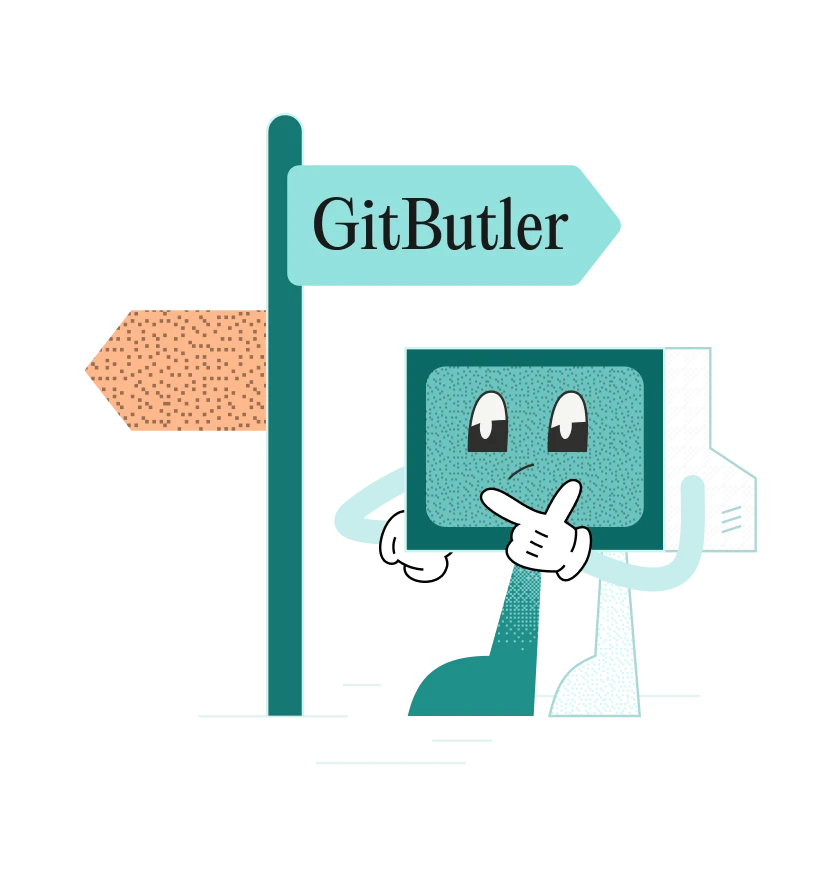
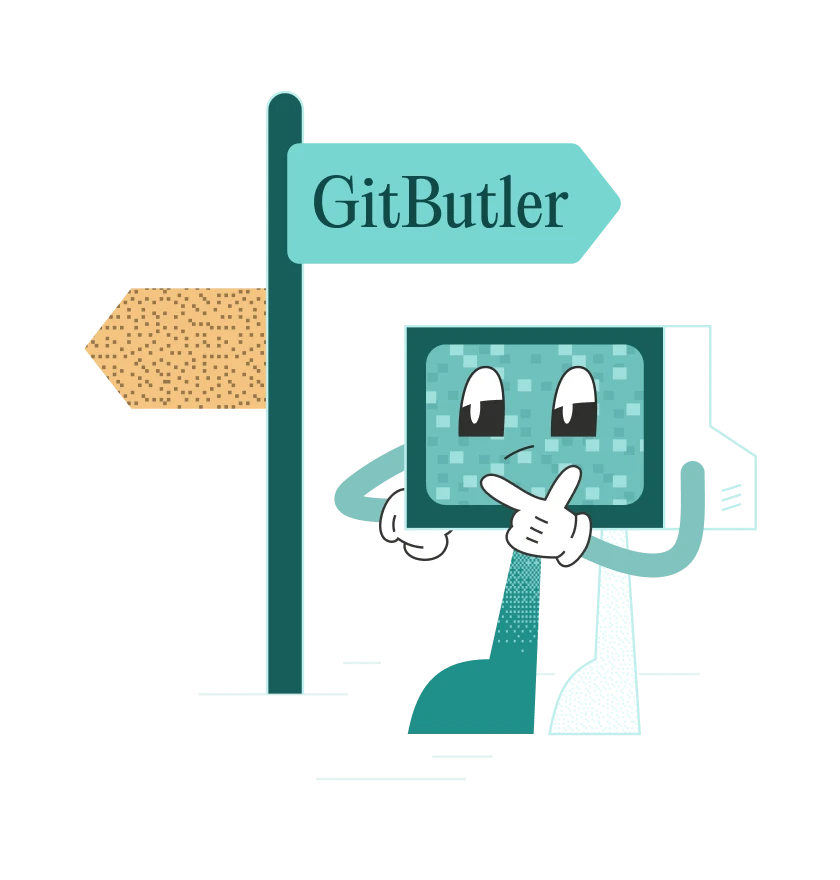
Added new “error” state image, a few minor CSS fixes

Changed region(s): [[0.3714, 0.3682, 0.8976, 0.8898], [0.0929, 0.092, 0.7429, 0.8284]]

diff --git a/gitbutler-ui/src/lib/components/Select.svelte b/gitbutler-ui/src/lib/components/Select.svelte
@@ -36,7 +36,7 @@
 
 <div class="select-wrapper" class:wide>
 	{#if label}
-		<label for={id} class="select__label text-base-body-13 text-semibold">{label}</label>
+		<label class="select__label text-base-body-13 text-semibold">{label}</label>
 	{/if}
 	<TextBox
 		{id}
@@ -95,6 +95,7 @@
 	}
 
 	.select__label {
+		text-align: left;
 		color: var(--clr-theme-scale-ntrl-50);
 	}
 
@@ -107,7 +108,7 @@
 		margin-top: var(--space-4);
 		border-radius: var(--radius-m);
 		border: 1px solid var(--clr-theme-container-outline-light);
-		background: var(--container-light, #fff);
+		background: var(--clr-theme-container-light);
 		box-shadow: var(--fx-shadow-s);
 	}
 

diff --git a/gitbutler-ui/src/lib/components/ProblemLoadingRepo.svelte b/gitbutler-ui/src/lib/components/ProblemLoadingRepo.svelte
@@ -15,7 +15,13 @@
 	$: user$ = userService.user$;
 </script>
 
-<DecorativeSplitView user={$user$}>
+<DecorativeSplitView
+	user={$user$}
+	imgSet={{
+		light: '/images/img_repo-load-error-light.webp',
+		dark: '/images/img_repo-load-error-dark.webp'
+	}}
+>
 	<div class="problem" data-tauri-drag-region>
 		<p class="problem__project text-bold"><Icon name="repo-book" /> {project?.title}</p>
 		<p class="problem__title text-base-body-18 text-bold" data-tauri-drag-region>

diff --git a/gitbutler-ui/src/lib/components/NotOnGitButlerBranch.svelte b/gitbutler-ui/src/lib/components/NotOnGitButlerBranch.svelte
@@ -65,7 +65,7 @@
 						// if (baseBranch) branchController.setTarget(baseBranch.branchName);
 					}}
 				>
-					Switch to another project...
+					Switch to another project
 				</Button>
 			{/if}
 		</div>
